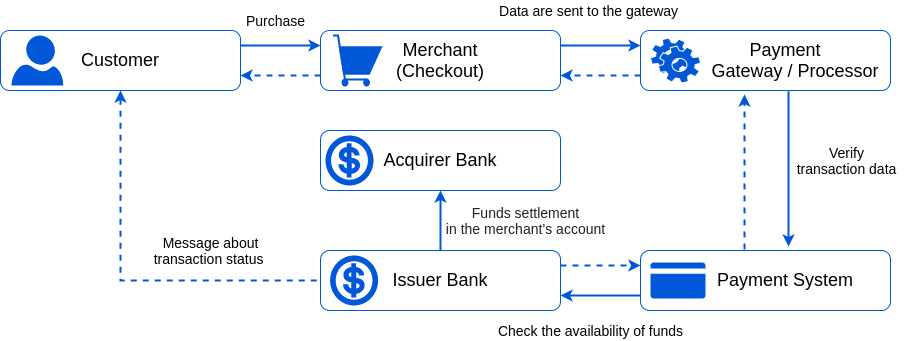
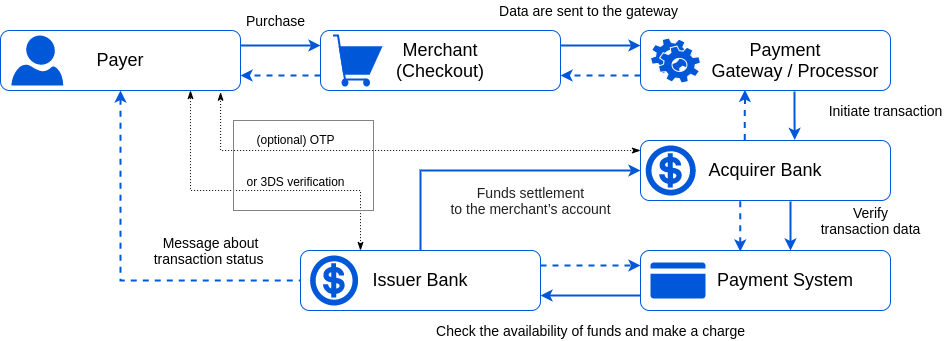
after review

diff --git a/docs/products/payment-gateway/index.md b/docs/products/payment-gateway/index.md
@@ -8,11 +8,11 @@ A payment transaction flow is the journey of payment from start to approval and 
 
 The main participants there are:
 
-* **Payer** (cardholder) that decides to pay for the service
-* **Merchant** (business owner or service provider) to whose account the funds are transmitted
-* **Acquirer** processes payments on behalf of the merchant and routes them through the payment systems and card networks (such as Visa or Mastercard) to the issuing bank.
-* Seldom acquirers may attract third party **providers** to help process payments. **Payment providers (PSP)** can offer the organisation of payment reception, Internet acquiring, agency cooperation scheme, act as international or local companies, have different conditions for opening accounts.
-* **Issuer** bank that extends cards to consumers on behalf of the card networks.
+- Payer (cardholder) that decides to pay for the service.
+- Merchant (business owner or service provider) to whose account the funds are transmitted.
+- Acquirer processes payments on behalf of the merchant and routes them through the card networks (such as Visa or Mastercard) to the issuing bank.
+- Seldom acquirers may attract third party providers to help process payments. **Payment providers (PSP)** can offer the organisation of payment reception, Internet acquiring, agency cooperation scheme, act as international or local companies, have different conditions for opening accounts.
+- Issuer bank that extends cards to consumers on behalf of the card networks.
 
 To succeed in a payment process, you should accurately interact with each of the participants.
 
@@ -23,49 +23,52 @@ To succeed in a payment process, you should accurately interact with each of the
 What happens when a customer decides to pay for merchandise or service? In general, we can describe the interaction as follows:
 
 1. The customer places an order, fills in all necessary card (account) data for payment, and press a 'Pay' button.
-2. The encrypted data is sent to the payment gateway that collects payment details and sends them to the payment system.
-3. The payment system verifies the transaction data and passes them to the issuer bank.
-4. The issuer also checks the authorisation request and sends a response back to the payment processor with the transaction status or error details.
-5. Through the payment gateway, the transaction status is returned to the merchant.
-6. The merchant displays a status page with the transaction status (accepted or denied). And the issuer bank also sends an appropriate message to the customer.
-7. Within a day or a couple of days, the issuing bank transfers funds to the merchant's account.
+2. The encrypted data are sent to a payment gateway that collects payment details, initiates a transaction and sends data to an acquirer. Yet, the acquirer by itself may act as a payment gateway in several cases.
+3. After confirming transaction data and, optionally, checking the payer by OTP verification, the acquirer transfer data to a payment system.
+4. The payment system validates the transaction data and passes them to an issuer bank.
+5. The issuer also checks the authorisation request and responds to the payment processor with the transaction status or error details. Before this, the issuer bank may request 3DS verification from the payer.
+6. Through the payment gateway, the transaction status is returned to the merchant.
+7. The merchant displays a status page with the transaction status (accepted or denied). And the issuer bank also sends an appropriate message to the customer.
+8. Within a day or a couple of days, the issuing bank transfers funds to the merchant's account.
 
-The **payment gateway** plays an essential role by connecting the main participants. Depending on the flow chosen, it can:
+The payment gateway plays an essential role by connecting the main participants. However, depending on the flow chosen, it can:
 
-* **process** all the data on its side,
-* **redirect** the payer to the provider's  payment page,
-* or make the payer's **authorisation** without writing off funds.
+- **process** all the data on its side, 
+- **redirect** the payer to the provider's  payment page, 
+- or **make the authorisation** without writing off funds.
 
 ## {{custom.company_name}} payment gateway
 
-A payment gateway is a tool for accepting payments through connected payment providers interacting with them in a unified form. It takes care of authorising the payment and ensuring that the data entered is enough to finalise the transaction and distributing funds into the currency account.
+A payment gateway is a tool for accepting payments through connected payment providers interacting with them in a unified form. It takes care of authorising the invoice and ensuring that the data entered is enough to finalise the transaction and distributing funds into the currency account.
+
+The gateway protects customer data by encrypting all sensitive information it holds. And this process ensures that personal private details are passed securely between the customer, the payment provider, and the merchant.
 
 The payment gateway performs its tasks depending on supported integration methods, chosen payment flow, and transaction processing procedure defined by the provider interface.
 
-Payment gateways can execute the following processing types:
+Payment gateways can execute the following transaction processing types:
 
-* **Authorisation** type of transaction is used to identify whether the payment card is valid, and a customer has enough funds. It doesn't include the actual money transfer. Instead, the issuer bank holds money and ensures a merchant the customer can pay for an order, usually for the one that takes time to ship or manufacture.
+**The authorisation** type of transaction identifies whether the payment card is valid and a customer has enough funds. It doesn't include the actual money transfer. Instead, the issuer bank holds money and ensures a merchant the customer can pay for an order, usually for the one that takes time to ship or manufacture.
 
-* **Void** is the result of a cancelled order used if the provider authorised but didn't yet capture funds.
+**Capture** is the actual processing of a previously authorised payment resulting in funds sending to the merchant's account.
 
-* **Capture** is the actual processing of a previously authorised payment resulting in funds sending to the merchant's account.
+**Sale** is a combination of authorisation and capture transactions. It's a regular payment for quick and possibly everyday purchases like a subscription or e-tickets.
 
-* **Sale** is a combination of authorisation and capture transactions. It's a regular payment for quick and possibly regular purchases like a subscription or e-tickets.
+**Refund** is the result of a cancelled order for which a merchant has to apply a refund payment processing to return the money to a customer.
 
-* **Refund** is the result of a cancelled order for which a merchant has to apply a refund payment processing to return the money to a customer.
+**Void** is similar to the refund and used if the provider authorised but didn't yet capture funds.
 
 ### The benefits of the payment gateway using
 
 1. Security isn't your problem: the payment gateway takes over the purchase data safety and ensures that your customers can pay with confidence. The gateway protects customer data by encrypting all sensitive information it holds. And this process ensures that personal private details are passed securely between the customer, the payment provider, the banks, and the merchant.
 2. More straightforward integration: such payment gateways as {{custom.company_name}} integrate more than 100 payment service providers, and you can choose all that suit you.
-3. Multiple payment options are available: you can offer your users multiple ways to pay, not only debit and credit cards but vouchers, e-wallet and cryptocurrency payments.
-4. If you have plans to sell to customers abroad, it's worthwhile to grant a gateway accepting payments in foreign currencies.
+3. Multiple payment options are available: you can offer your users numerous ways to pay, not only debit and credit cards but vouchers, e-wallet and cryptocurrency payments.
+4. If you have plans to sell to customers abroad, it's worth granting a gateway accepting payments in foreign currencies.
 5. The payment gateways are independent of the bank working hours and run around the clock to process a customer's payment no matter the purchase time.
-6. Finally, using a single gateway, you collect all payments received in one spot and get reports and analysis to increase your income.
+6.  Finally, using a single gateway, you collect all payments received in one spot and get reports and analysis under a unified structure so that the decision-making process becomes faster and cheaper.
 
 In the following pages, we're going closer to setting up the {{custom.company_name}} payment gateways and choosing [payment methods and options in their variety](methods-n-options).
 
 !!! note
-    The gateway's correct work strongly depends on the payment provider accounts' proper settings. When you begin configuring {{custom.company_name}} payment gateway, you need to choose and set up several [connections](/connectors/) (we recommend to start with Test and Card Gate).
+    The gateway's correct work strongly depends on the payment provider accounts' proper settings. When you begin configuring {{custom.company_name}} payment gateway, you need to choose and set up several [connections](/connectors/) (we recommend to start with the [Test connector](/connectors/test/)).
 
     And it is also advisable to check and configure the [organisation's account](/products/account/) firstly.
